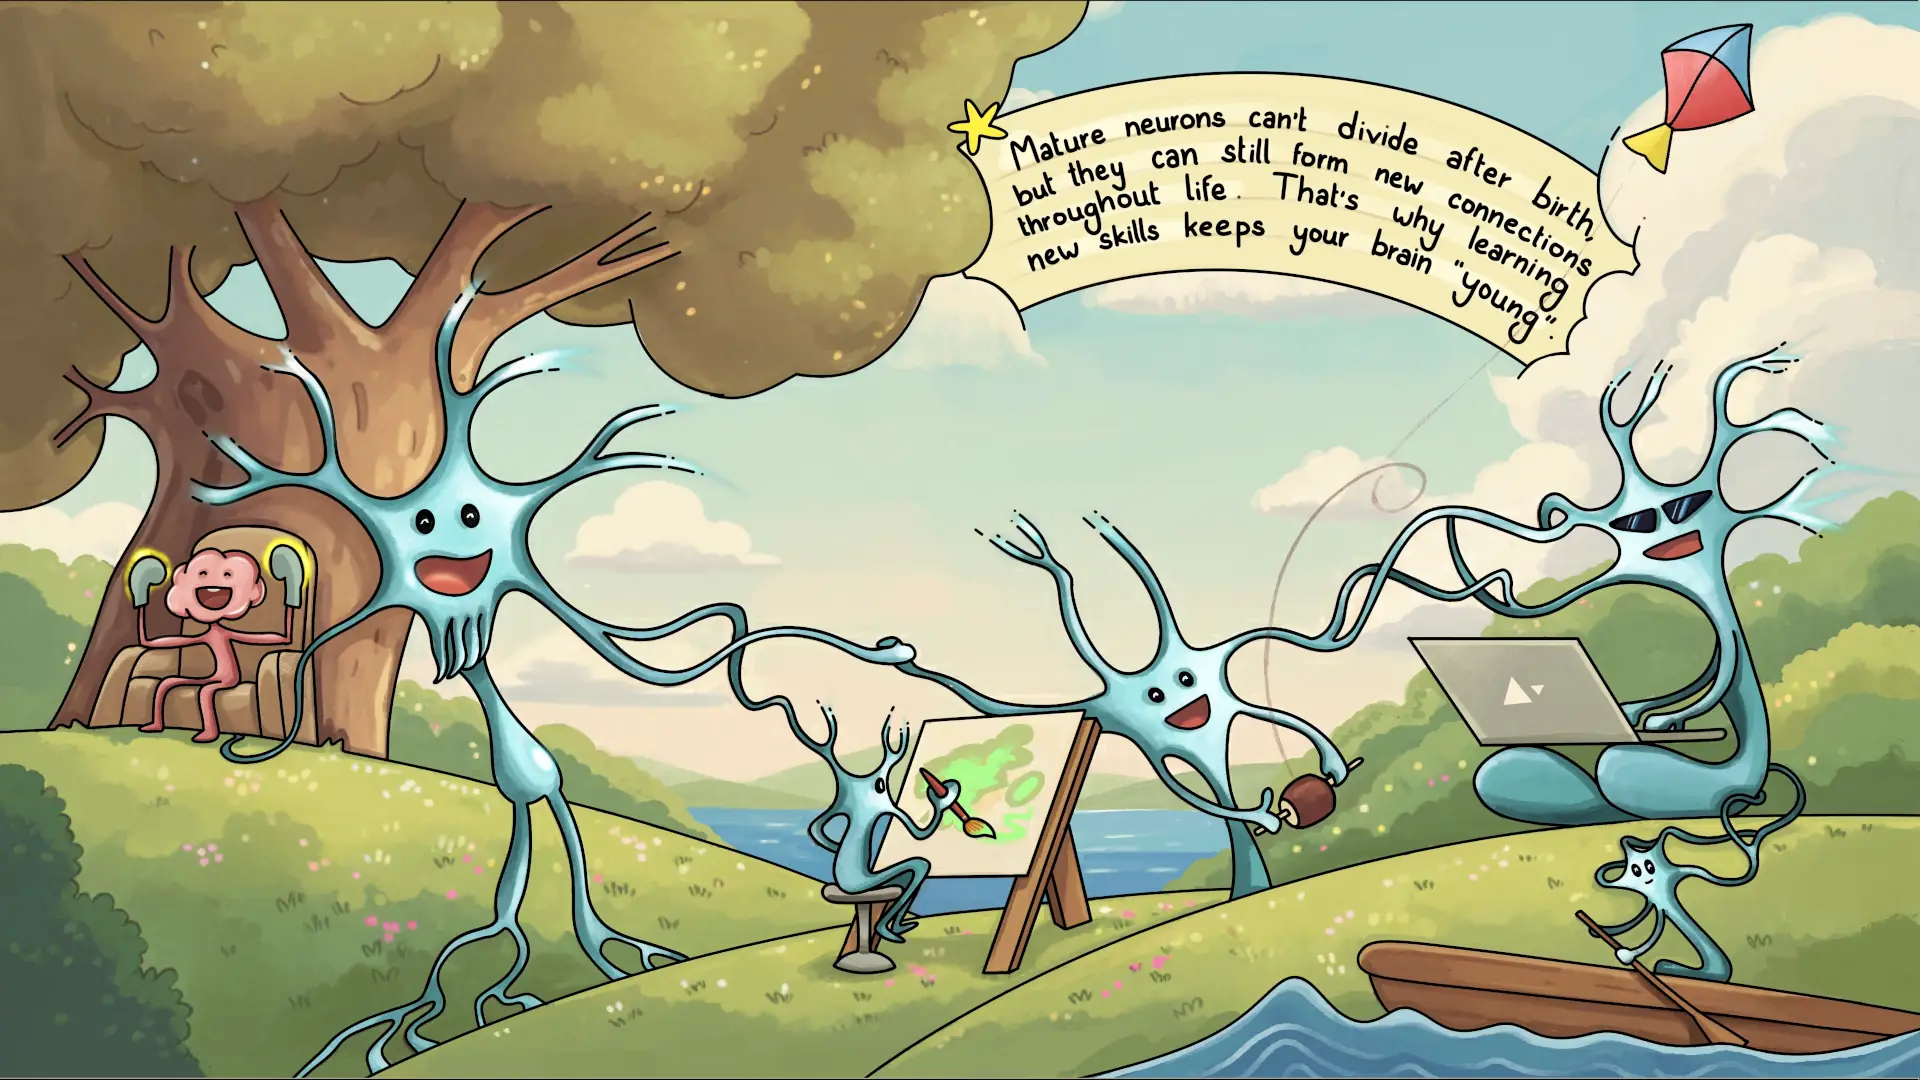
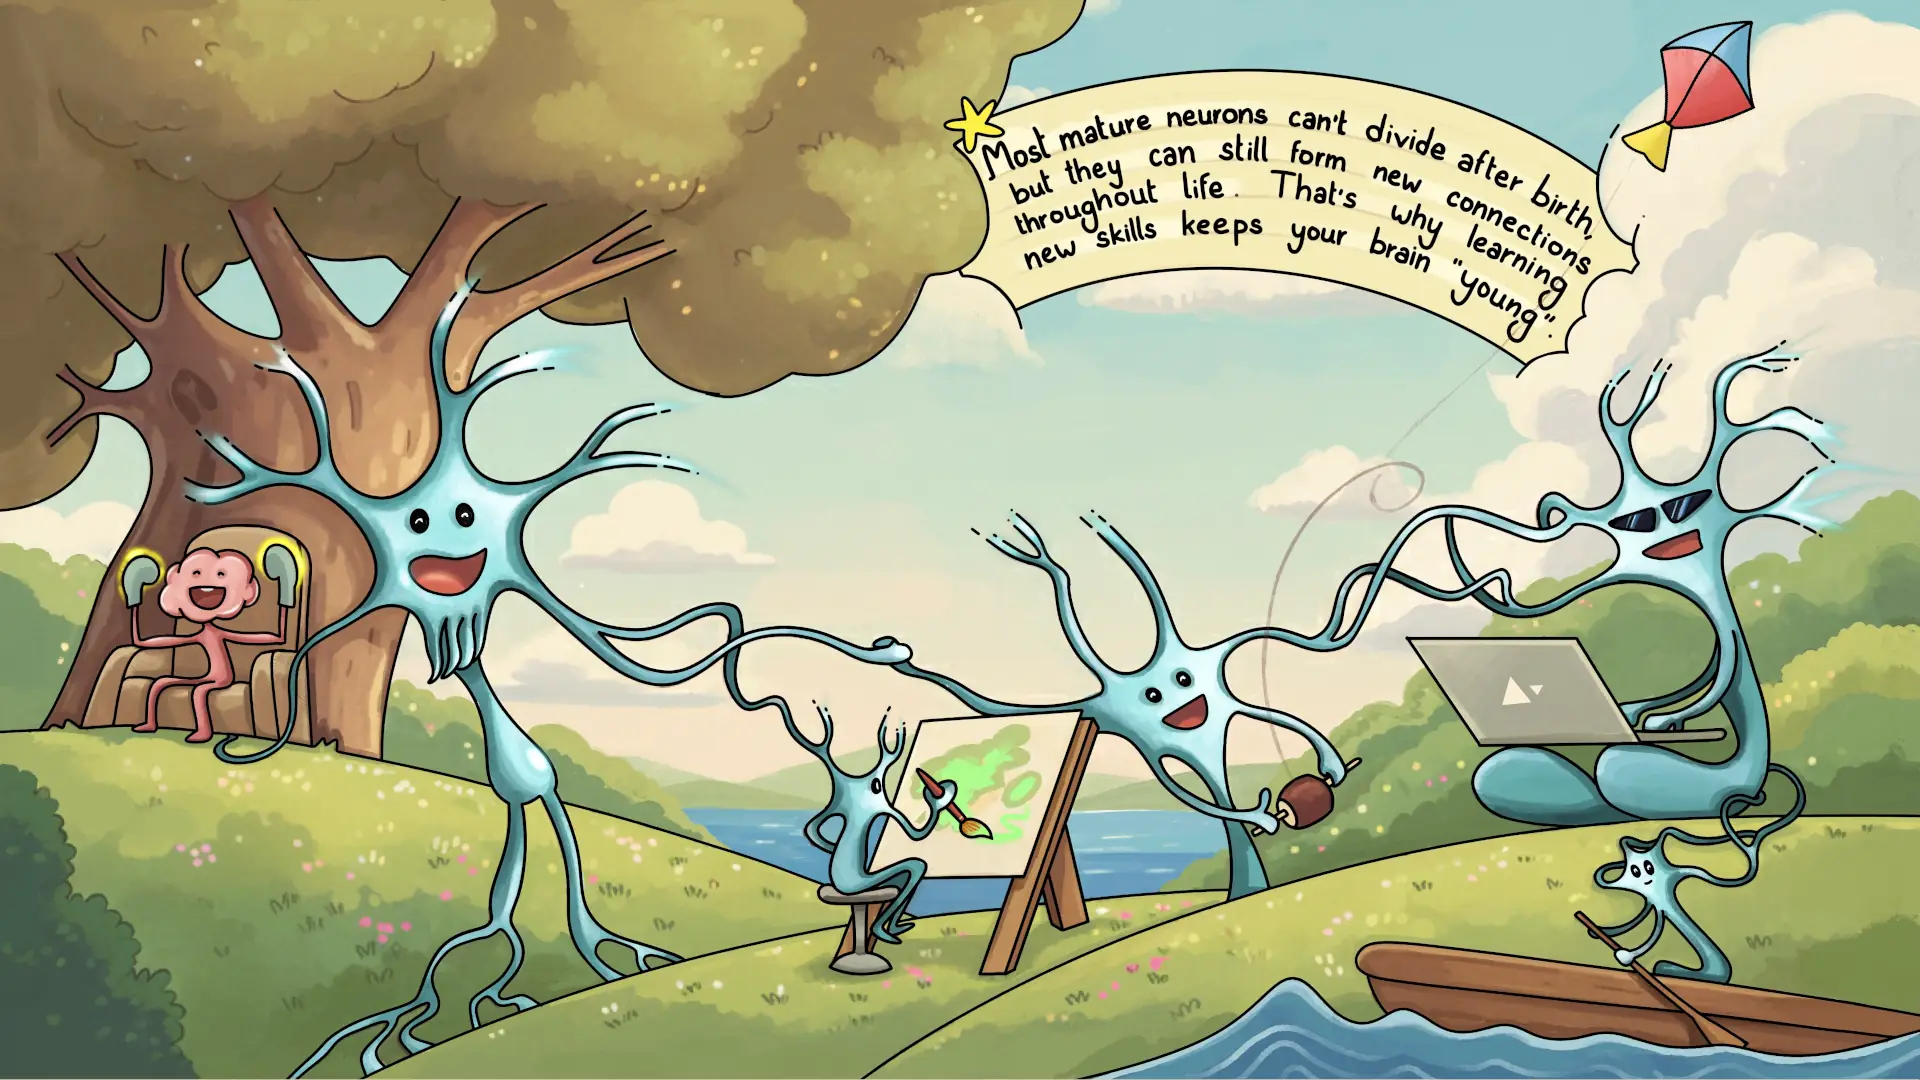
Addition of graphics with some error fixed

diff --git a/courses/neuroscience-basics-for-biopotential-signals/module-1/index.rst b/courses/neuroscience-basics-for-biopotential-signals/module-1/index.rst
@@ -15,18 +15,18 @@ It is divided into two major parts based on structure (anatomy):
 - Central Nervous System (CNS)
 - Peripheral Nervous System (PNS)
 
-.. figure:: ../media/parts-of-nervous-system.*
+.. figure:: ../media/parts-of-human-nervous-system.*
     :align: center
-    :alt: parts of nervous system
+    :alt: Parts of nervous system
 
-    Types of nervous system
+    Parts of Human nervous system
 
-.. figure:: ../media/flowchart-nervous-system.*
+.. figure:: ../media/nervous-system-flowchart.* 
     :align: center
-    :alt: nervous system flowchart
+    :alt: Nervous system flowchart
 
     An overview of the nervous system
-    
+
 **This overview (above) is a simplified representation and does not show the full nervous system. You may refer to advanced textbook for further explanation.**
 
 .. admonition:: Fun Fact #1
@@ -37,7 +37,6 @@ It is divided into two major parts based on structure (anatomy):
         :align: center
         :alt: Human nervous system fun fact#1
 
-         
 .. admonition:: Fun Fact #2
 
     **The human nervous system can transmit signals at speeds over 120m/s (about 431 km/h), faster than a Formula 1 race car.**
@@ -74,7 +73,7 @@ The brain is the most complex organ which communicates with the body by sending 
 
 .. figure:: ../media/parts-of-human-brain.*
     :align: center
-    :alt: Part of the brain
+    :alt: Parts of human brain
 
     3 major parts of human brain
 
@@ -85,7 +84,7 @@ Cerebrum is the largest part of the brain  which can be divided into 2 hemispher
 
 .. figure:: ../media/two-hemispheres.*
     :align: center
-    :alt: Brain Anatomy
+    :alt: Two hemispheres of brain
 
     The 2 hemispheres of the brain
 
@@ -107,10 +106,9 @@ Cerebellum
 
 The cerebellum (little brain) is a fist-sized portion of the brain located at the back of the head and above the brainstem. Its function is to coordinate voluntary muscle movements and to maintain posture, balance and equilibrium. The 2 hemispheres of cerebellum are connected by the vermis.
 
-
 .. figure:: ../media/parts-of-human-brain-1.*
     :align: center
-    :alt: Part of the brain
+    :alt: Remaining parts of the brain
 
     The cerebellum and brainstem
 
@@ -122,8 +120,6 @@ The brainstem (middle of brain) connects the cerebrum to the spinal cord. The br
 a. **Midbrain:** Involved in motor control and auditory/visual processing.
 b. **Pons:** It is a connection between midbrain and medulla. It controls sleep, respiration, and some motor functions.
 c. **Medulla oblongata:** At the bottom of the brainstem, the medulla is where the brain meets the spinal cord. The medulla is crucial for survival, as it regulates vital bodily functions, including heart rate, breathing, blood circulation, and the balance of oxygen and carbon dioxide levels. It also controls reflexive actions such as sneezing, vomiting, coughing, and swallowing.
-
-.. todo:: oblongata spelling is wrong
 
 .. figure:: ../media/brainstem.*
     :align: center
@@ -179,6 +175,12 @@ The somatic nervous system controls voluntary movements and transmits sensory in
 a. **Sensory Neurons (Afferent Neurons):** These neurons carry signals from sensory receptors (skin, muscles, joints) to the CNS, allowing us to perceive sensations like pain, temperature, and touch.
 b. **Motor Neurons (Efferent Neurons):** These neurons transmit commands from the CNS to the skeletal muscles, enabling voluntary movement such as walking, talking, and picking up objects.
 
+.. figure:: ../media/somatic-nervous-system.*
+    :align: center
+    :alt: Somatic nervous system
+
+    Somatic reflex arc
+
 1.3.2 Autonomic Nervous System (ANS)
 ======================================
 
@@ -206,7 +208,7 @@ Neurons are the building blocks of the nervous system and are responsible for re
 
 .. admonition:: Fun Fact #8
 
-    **Mature neurons can't divide after birth, but they can still form new connections throughout life. That's why learning new skills keeps your brain "young"**
+    **Most mature neurons can't divide after birth, but they can still form new connections throughout life. That's why learning new skills keeps your brain "young"**
 
     .. figure:: ../media/module-1-fun-fact-8.*
         :align: center
@@ -218,16 +220,15 @@ Neurons are the building blocks of the nervous system and are responsible for re
 Based on Function
 ------------------------
  
-
 1. **Sensory Neurons:** Transmit sensory information (e.g., pain, temperature, pressure) from receptors to the CNS.
 2. **Motor Neurons:** Carry commands from the CNS to muscles and glands, enabling actions like muscle contraction or hormone release.
 3. **Interneurons:** These neurons are found in the CNS and act as connectors between sensory and motor neurons. They help process and integrate information. It is the most common type of neuron.
 
-.. todo:: CORRECT INTERNEURON DIAGRAM
-
 .. figure:: ../media/types-of-neurons.*
     :align: center
     :alt: types of neurons
+
+    Types of neurons based on function
 
 1.4.2 Structure of neuron
 ============================
@@ -286,7 +287,11 @@ Glial cells (or neuroglia) are non-neuronal cells of the nervous system which pr
 1.5.2 Types of glial cells
 ===============================
 
-.. todo:: Upload types of glial cells images
+.. figure:: ../media/types-of-neuroglia.*
+    :align: center
+    :alt: types of neuroglia
+
+    Types of glial cells based on location
 
 1.5.2.1 In Central nervous system
 -----------------------------------------
@@ -313,7 +318,7 @@ a. Astrocytes
 - Provide nutrients to neurons
 - Regulate ion balance, neurotransmitters (e.g., glutamate uptake)
 - Help in synapse formation
-- MOST ABUNDANT GLIAL CELLS IN CNS 
+- Most abundant glial cell type in the CNS 
 
 b. Oligodendrocytes
 """"""""""""""""""""""""

diff --git a/courses/index.rst b/courses/index.rst
@@ -3,6 +3,10 @@
 Courses
 ########
 
+.. figure:: neuroscience-basics-for-biopotential-signals/media/courses-main-page-banner.*
+    :align: center
+    :alt: Courses Main Page Banner 
+    
 Welcome to the Neuroscience Courses section - Your starting point for understanding the electrical language of the nervous system through clear concepts and practical neuroscience applications.
 
 These courses guide you step-by-step from the basic principles of neuroscience to real, practical skills for recording brain,
@@ -29,7 +33,7 @@ hands-on way.
          :link: neuroscience-basics-for-biopotential-signals-module-1
          :link-type: ref
 
-      .. grid-item-card:: Module 2: Understanding the resting potential
+      .. grid-item-card:: Module 2: Understanding the Resting Potential
          :text-align: center
          :link: neuroscience-basics-for-biopotential-signals-module-2
          :link-type: ref
